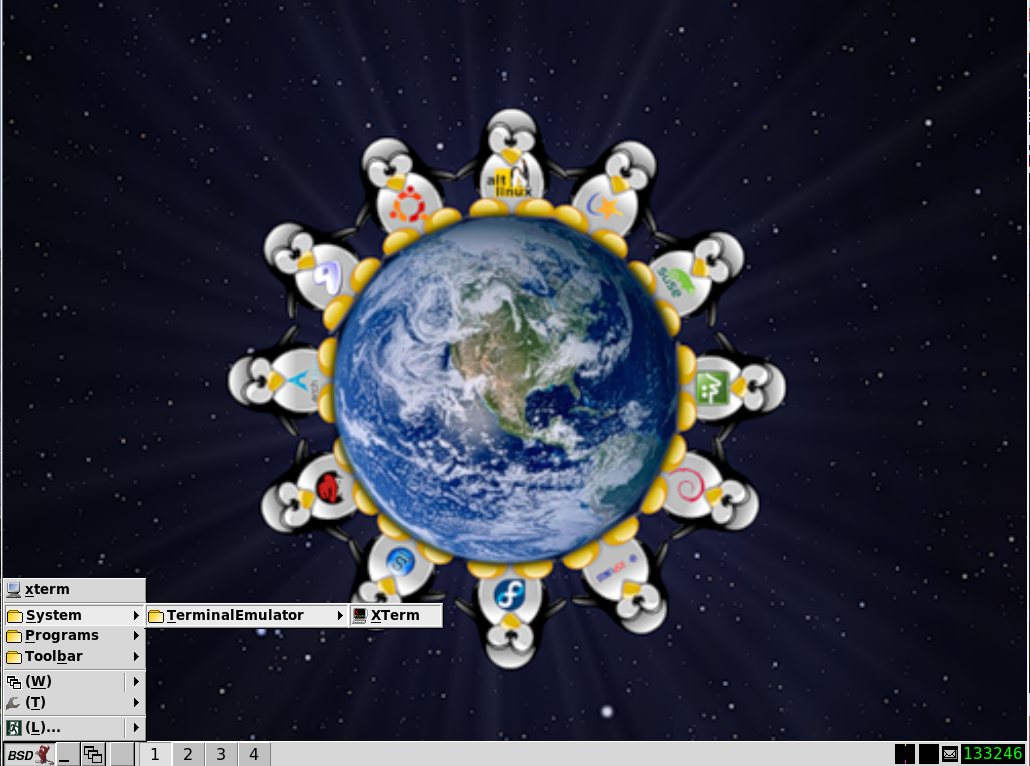
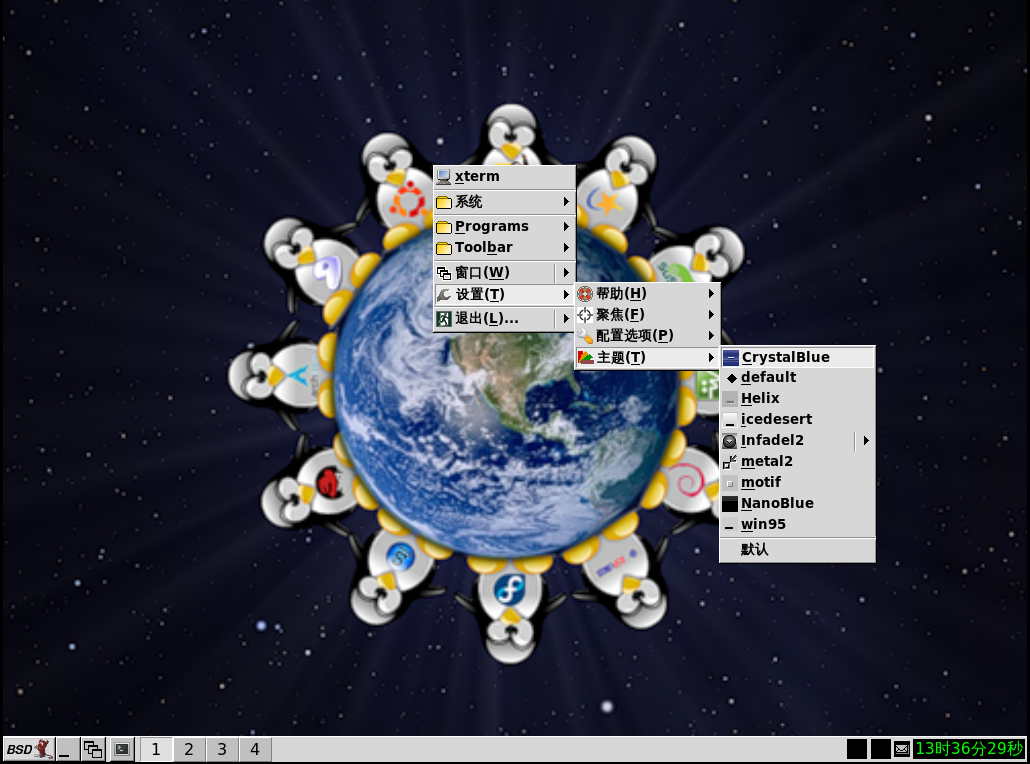
重写“7.2 IceWM” (#1666)

diff --git a/di-7-zhang-chuang-kou/di-7.2-icewm.md b/di-7-zhang-chuang-kou/di-7.2-icewm.md
@@ -1,14 +1,16 @@
 # 7.2 IceWM
 
+IceWM 是基于 X Window 系统的窗口管理器。IceWM 的目标是速度快、简单，并且不干扰用户操作。它自带分页器任务栏、全局和每个窗口的快捷键以及动态菜单系统。可通过键盘和鼠标来管理窗口。可以图标化窗口到任务栏、托盘、桌面，或被隐藏。用户可以通过快速切换窗口（Alt+Tab）或窗口列表来控制它们。多种可配置的焦点模型可通过菜单选择。多显示器环境由 RandR 和 Xinerama 支持。IceWM 高度可配置、可自定义主题且文档完善。IceWM 拥有可选的外部背景墙纸管理器（支持透明）、简单的会话管理器和系统托盘。可在流行的 Linux 发行版，以及大多数 *BSD 系统上使用 IceWM。——引自 [IceWM Window Manager](https://ice-wm.org/)
+
 ## 安装
 
-- 使用 pkg 安装：
+### 使用 pkg 安装
 
 ```sh
 # pkg install xorg icewm slim wqy-fonts xdg-user-dirs
 ```
 
-- 或者使用 Ports 安装：
+### 使用 Ports 安装
 
 ```sh
 # cd /usr/ports/x11-wm/icewm/ && make install clean # fluxbox
@@ -19,7 +21,7 @@
 # cd /usr/ports/devel/xdg-user-dirs/ && make install clean
 ```
 
-- 解释
+### 软件包解释
   
 | 包名               | 作用说明                                                                 |
 |:------------------|:-----------------------------------------------------------------------|
@@ -41,8 +43,8 @@ exec icewm-session
 ## 启动项
 
 ```sh
-# service dbus enable
-# sysrc slim_enable="YES"
+# service dbus enable # 作为依赖自动安装
+# service slim enable
 ```
 
 ## fstab
@@ -53,8 +55,23 @@ exec icewm-session
 proc           /proc       procfs  rw  0   0
 ```
 
+## 中文环境
+
+编辑 `/etc/login.conf`：找到 `default:\` 这一段，把 `:lang=C.UTF-8` 修改为 `:lang=zh_CN.UTF-8`。
+
+刷新数据库：
+
+
+```sh
+# cap_mkdb /etc/login.conf
+```
+
 
 ## 桌面欣赏
+
+![FreeBSD 安装 icewm](../.gitbook/assets/icewm3.png)
+
+安装后默认如上。我们可以换主题：
 
 ![FreeBSD 安装 icewm](../.gitbook/assets/fluxbox1.png)
 
@@ -62,12 +79,13 @@ proc           /proc       procfs  rw  0   0
 
 ![FreeBSD 安装 icewm](../.gitbook/assets/icewm2.png)
 
+
 ## 故障排除与未竟事宜
 
-- 菜单缺失文字
+### 中文环境不完整
 
-待解决
+待 PR。
 
-- 没有中文
+## 参考文献
 
-待解决
+- [icewm-preferences(5)](https://man.freebsd.org/cgi/man.cgi?query=icewm-preferences)，手册页

diff --git a/CHANGELOG.md b/CHANGELOG.md
@@ -4,7 +4,9 @@
 
 ## 2025 年第四季度
 
-- 2025.128.
+- 2025.12.13
+  - 重写“7.2 IceWM”
+- 2025.12.8
   - “5.1 FreeBSD 镜像站现状”新增“拒绝开放的可能性原因分析”
 - 2025.12.7
   - 完全重写：“25.5 更新 ZFS 的 zpool”
